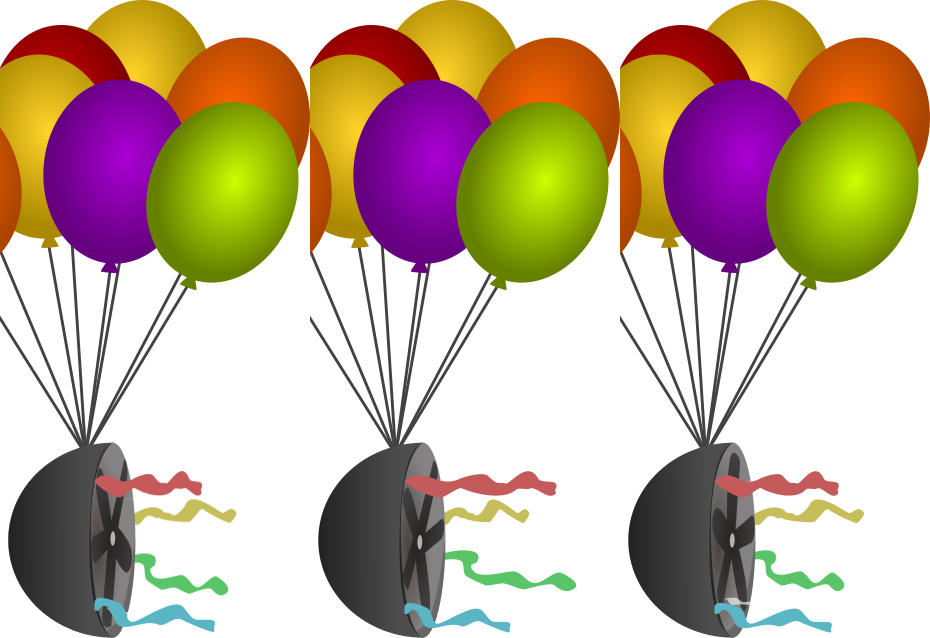
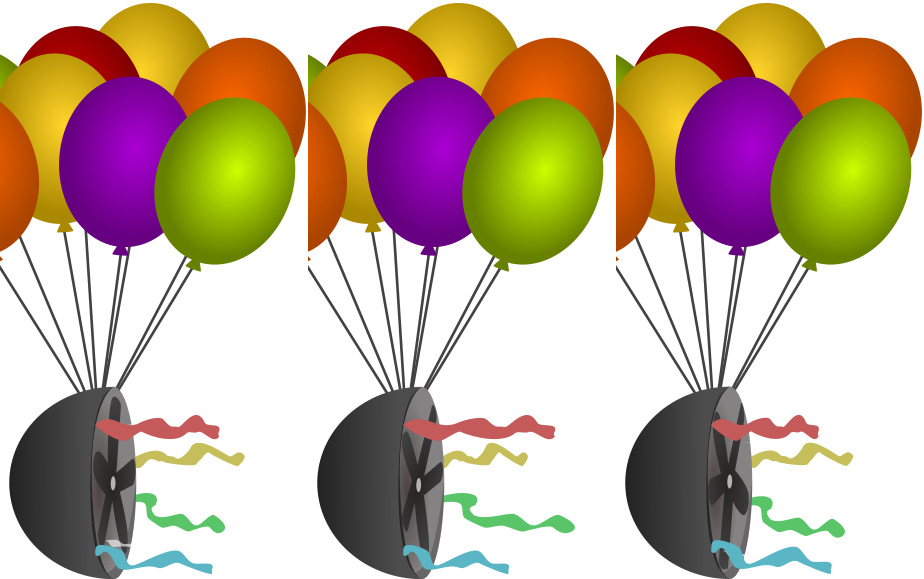
Fans spawner, fans blow.

diff --git a/core/src/com/mygdx/game/sky/Fan.java b/core/src/com/mygdx/game/sky/Fan.java
@@ -3,8 +3,15 @@ package com.mygdx.game.sky;
 import com.badlogic.gdx.graphics.Texture;
 import com.badlogic.gdx.graphics.g2d.Batch;
 import com.badlogic.gdx.graphics.g2d.TextureRegion;
+import com.badlogic.gdx.math.Vector2;
+import com.badlogic.gdx.physics.box2d.Body;
+import com.badlogic.gdx.physics.box2d.BodyDef;
+import com.badlogic.gdx.physics.box2d.FixtureDef;
+import com.badlogic.gdx.physics.box2d.PolygonShape;
+import com.badlogic.gdx.physics.box2d.World;
 import com.badlogic.gdx.scenes.scene2d.Actor;
 import com.mygdx.game.Game;
+import com.mygdx.game.Polandball;
 
 /**
  * Created by szostak on 1/13/18.
@@ -13,36 +20,96 @@ import com.mygdx.game.Game;
 public class Fan extends Actor {
     private final static int FRAMES_NUM = 3;
     private final static float INTERVAL = 0.1f;
+    private final static float WIND_FORCE = 0.5f;
     private static int FRAME_WIDTH;
     private static Texture texture = Game.content.getTexture("fan");
     private static TextureRegion[] frames = new TextureRegion[FRAMES_NUM];
-    {
+    private static TextureRegion[] flippedFrames = new TextureRegion[FRAMES_NUM];
+
+    static {
         FRAME_WIDTH = texture.getWidth()/FRAMES_NUM;
-        for(int i=0; i<FRAMES_NUM; ++i)
-            frames[i] = new TextureRegion(texture, FRAME_WIDTH*i, 0, FRAME_WIDTH, texture.getHeight());
+        for(int i=0; i<FRAMES_NUM; ++i) {
+            frames[i] = new TextureRegion(texture, FRAME_WIDTH * i, 0, FRAME_WIDTH, texture.getHeight());
+            flippedFrames[i] = new TextureRegion(texture, FRAME_WIDTH * i, 0, FRAME_WIDTH, texture.getHeight());
+            flippedFrames[i].flip(true, false);
+        }
+        restartSpawner();
     }
     private int currentFrame = 0;
     private float time = 0f;
+    private boolean flipped;
+    private Body body;
 
-    public Fan(float y, boolean right) {
+    public Fan(World world, float y, boolean right) {
+        flipped = !right;
         setY(y);
         if(right)
             setX(0);
         else
             setX(Game.WIDTH-FRAME_WIDTH);
+
+        float offsetX;
+        if(right) offsetX = 90f;
+        else offsetX = 220f;
+        BodyDef bodyDef = new BodyDef();
+        bodyDef.type = BodyDef.BodyType.StaticBody;
+        bodyDef.position.set((getX() + offsetX) / Game.PPM,
+                (getY() + 90f)  / Game.PPM);
+        body = world.createBody(bodyDef);
+        body.setUserData(this);
+        PolygonShape shape = new PolygonShape();
+        shape.setAsBox(50f / Game.PPM, 100f / Game.PPM);
+        FixtureDef fixtureDef = new FixtureDef();
+        fixtureDef.shape = shape;
+        fixtureDef.density = 0.1f;
+        fixtureDef.restitution = 0.5f;
+        body.createFixture(fixtureDef);
     }
 
-    public void update(float delta) {
+    public void update(float delta, Polandball player) {
         time += delta;
         if(time > INTERVAL) {
             currentFrame++;
             if(currentFrame >= FRAMES_NUM) currentFrame = 0;
             time = 0f;
+            if(player.getY() > getY() && player.getY() < getY() + 190f) {
+                float force;
+                if (flipped)
+                    force = -WIND_FORCE * player.getX() / Game.WIDTH;
+                else
+                    force = WIND_FORCE * (1f - player.getX() / Game.WIDTH);
+                
+                player.getBody().applyLinearImpulse(force, 0, player.getBody().getPosition().x, player.getBody().getPosition().y, true);
+            }
         }
+    }
+
+    public static float lastY;
+    public static float next;
+
+    public static void restartSpawner() {
+        lastY = 0f;
+        next = (float) (1800f+Math.random()*1800f);
+    }
+
+    public static Fan spawnFan(World world, float y) {
+        if(y - lastY > next) {
+            lastY = y;
+            next = (float) (1800f+Math.random()*1800f);
+            return new Fan(world, y, Math.random() > 0.5);
+        }
+        return null;
+    }
+
+    public void remove(World world) {
+        world.destroyBody(body);
     }
 
     @Override
     public void draw(Batch batch, float alpha){
-        batch.draw(frames[currentFrame], getX(), getY());
+        if(flipped)
+            batch.draw(flippedFrames[currentFrame], getX(), getY());
+        else
+            batch.draw(frames[currentFrame], getX(), getY());
     }
 }

diff --git a/core/src/com/mygdx/game/GameStage.java b/core/src/com/mygdx/game/GameStage.java
@@ -8,6 +8,8 @@ import com.badlogic.gdx.graphics.g2d.SpriteBatch;
 import com.badlogic.gdx.math.Vector2;
 import com.badlogic.gdx.physics.box2d.World;
 import com.badlogic.gdx.scenes.scene2d.Stage;
+import com.badlogic.gdx.scenes.scene2d.actions.Actions;
+import com.badlogic.gdx.utils.Array;
 import com.badlogic.gdx.utils.viewport.Viewport;
 import com.mygdx.game.sky.Fan;
 import com.mygdx.game.sky.SkyActor;
@@ -27,7 +29,7 @@ public class GameStage extends Stage {
     private SkyActor skyActor;
     private ObstacleActor leftBorder, rightBorder, bottomSensor;
     private FadeInOutSprite logo, tapToStart, tapToTryAgain;
-    private Fan testFan = new Fan(1500, true);
+    private Array<Fan> fanList = new Array<>();
 
     private enum Mode {
         START,
@@ -56,7 +58,6 @@ public class GameStage extends Stage {
         player = new Polandball(world, new Vector2(Game.WIDTH/2f-60f, 40f));
         addActor(player);
         camera.setPlayer(player);
-        addActor(testFan);
 
         logo = new FadeInOutSprite(Game.content.getTexture("logo"), 0.8f, 0.3f, 800f);
         addActor(logo);
@@ -68,19 +69,36 @@ public class GameStage extends Stage {
         tapToStart.show();
     }
 
+
+    public void restart() {
+        camera.restart();
+        player.restart();
+        for(Fan fan : fanList) {
+            fan.remove(world);
+            fan.addAction(Actions.removeActor());
+        }
+        fanList.clear();
+        Fan.restartSpawner();
+    }
+
     @Override
     public void act(float delta){
         super.act(delta);
         if(!player.isLive() && currentMode == Mode.PLAY) {
             currentMode = Mode.TRY_AGAIN;
-            camera.restart();
-            player.restart();
+            restart();
         }
         leftBorder.setY(camera.position.y);
         rightBorder.setY(camera.position.y);
         bottomSensor.setY(camera.position.y - Game.HEIGHT/2f);
         world.step(delta*2f, 6, 2);
-        testFan.update(delta);
+        Fan newFan = Fan.spawnFan(world,camera.position.y + Game.HEIGHT/2f + 300f);
+        if(newFan != null) {
+            fanList.add(newFan);
+            addActor(newFan);
+        }
+        for(Fan fan : fanList)
+            fan.update(delta, player);
     }
 
     @Override

diff --git a/core/src/com/mygdx/game/Polandball.java b/core/src/com/mygdx/game/Polandball.java
@@ -1,6 +1,7 @@
 package com.mygdx.game;
 
 import com.badlogic.gdx.math.Vector2;
+import com.badlogic.gdx.physics.box2d.Body;
 import com.badlogic.gdx.physics.box2d.BodyDef;
 import com.badlogic.gdx.physics.box2d.World;
 
@@ -16,6 +17,10 @@ public class Polandball extends PhysicsActor {
         startPos = new Vector2(position);
         body.setAwake(false);
         body.setActive(false);
+    }
+
+    public Body getBody() {
+        return body;
     }
 
     public void restart() {

diff --git a/core/src/com/mygdx/game/sky/Cloud.java b/core/src/com/mygdx/game/sky/Cloud.java
@@ -18,7 +18,7 @@ public class Cloud extends Actor {
     private final static float MOVEMENT_DURATION = 20f;
     private final static Texture cloudsTexture = Game.content.getTexture("clouds");
     private final static TextureRegion[] cloudsRegions = new TextureRegion[CLOUDS_NUM];
-    {
+    static {
         for(int i=0; i<CLOUDS_NUM; ++i)
             cloudsRegions[i] = new TextureRegion(cloudsTexture, i*CLOUD_WIDTH, 0, CLOUD_WIDTH, cloudsTexture.getHeight());
     }
